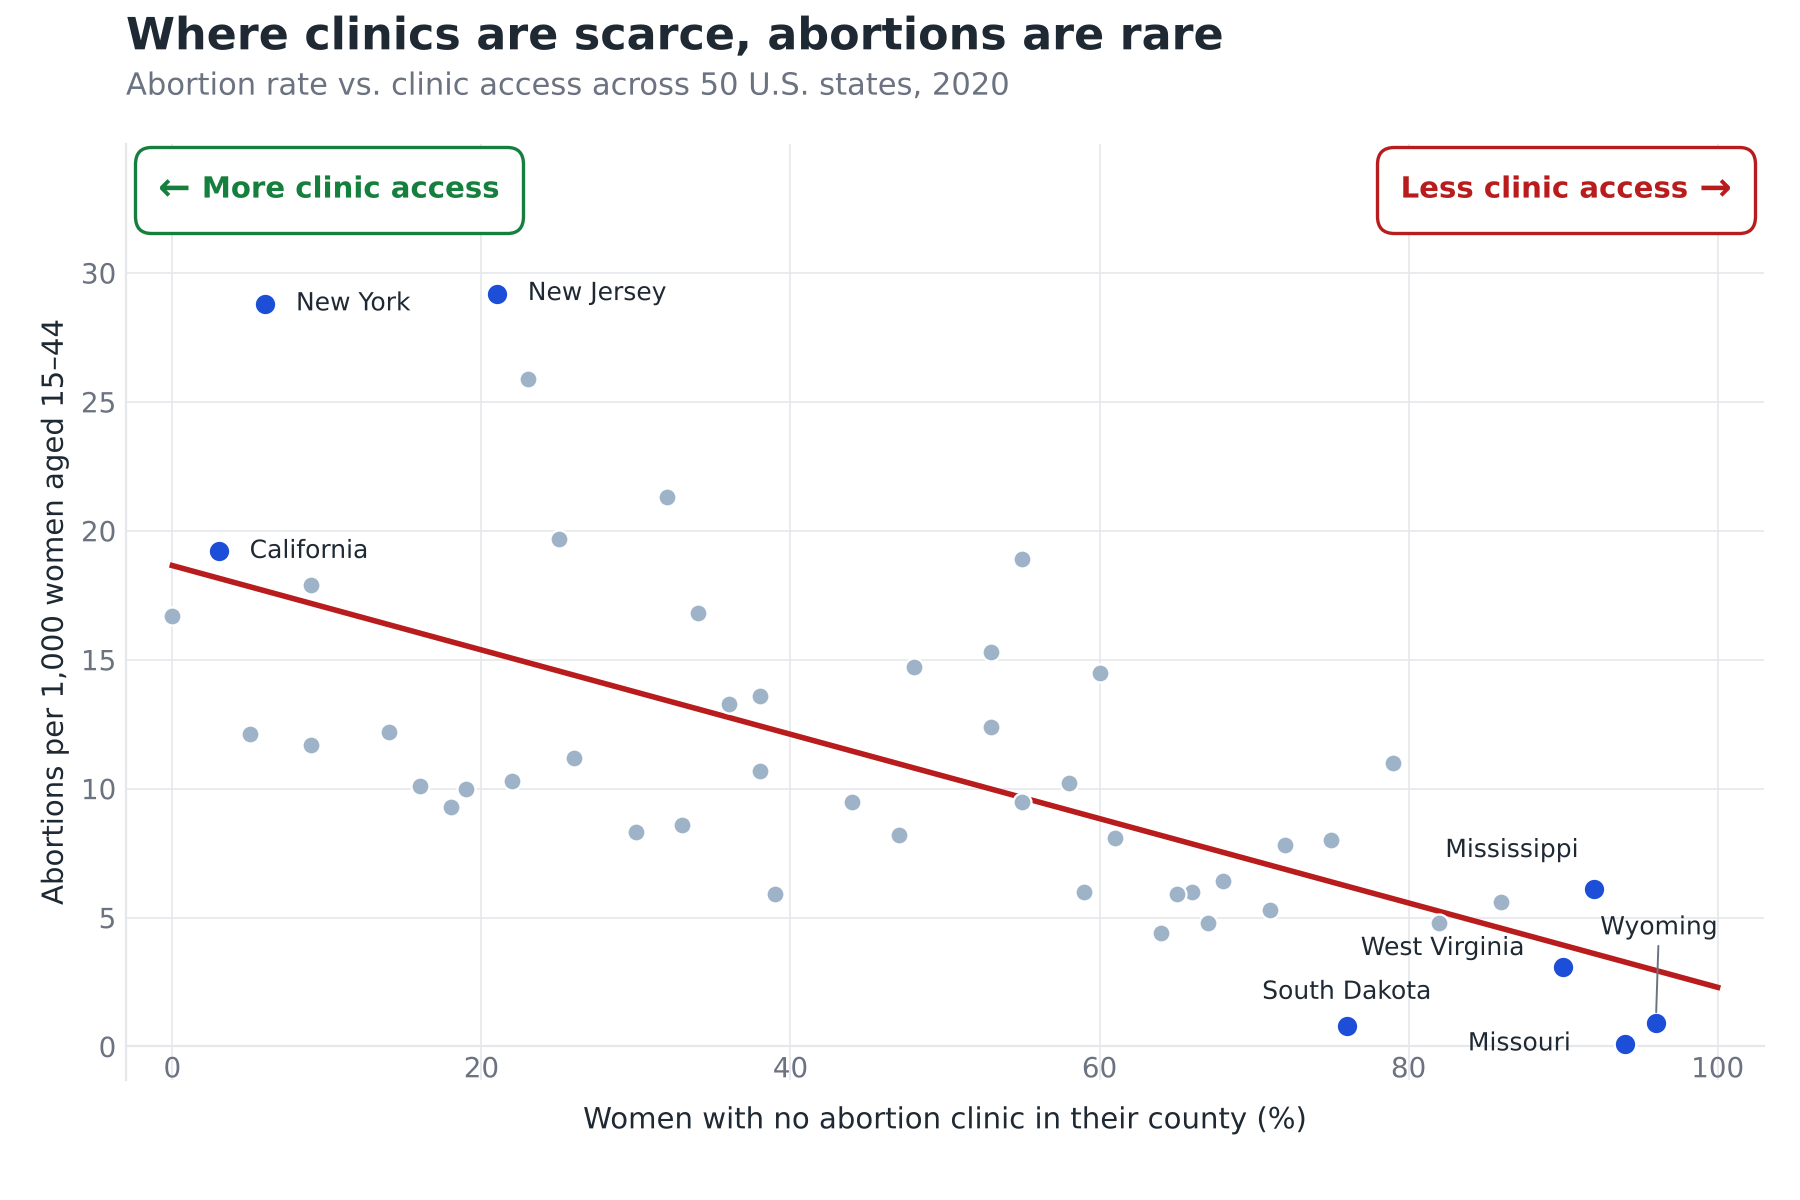
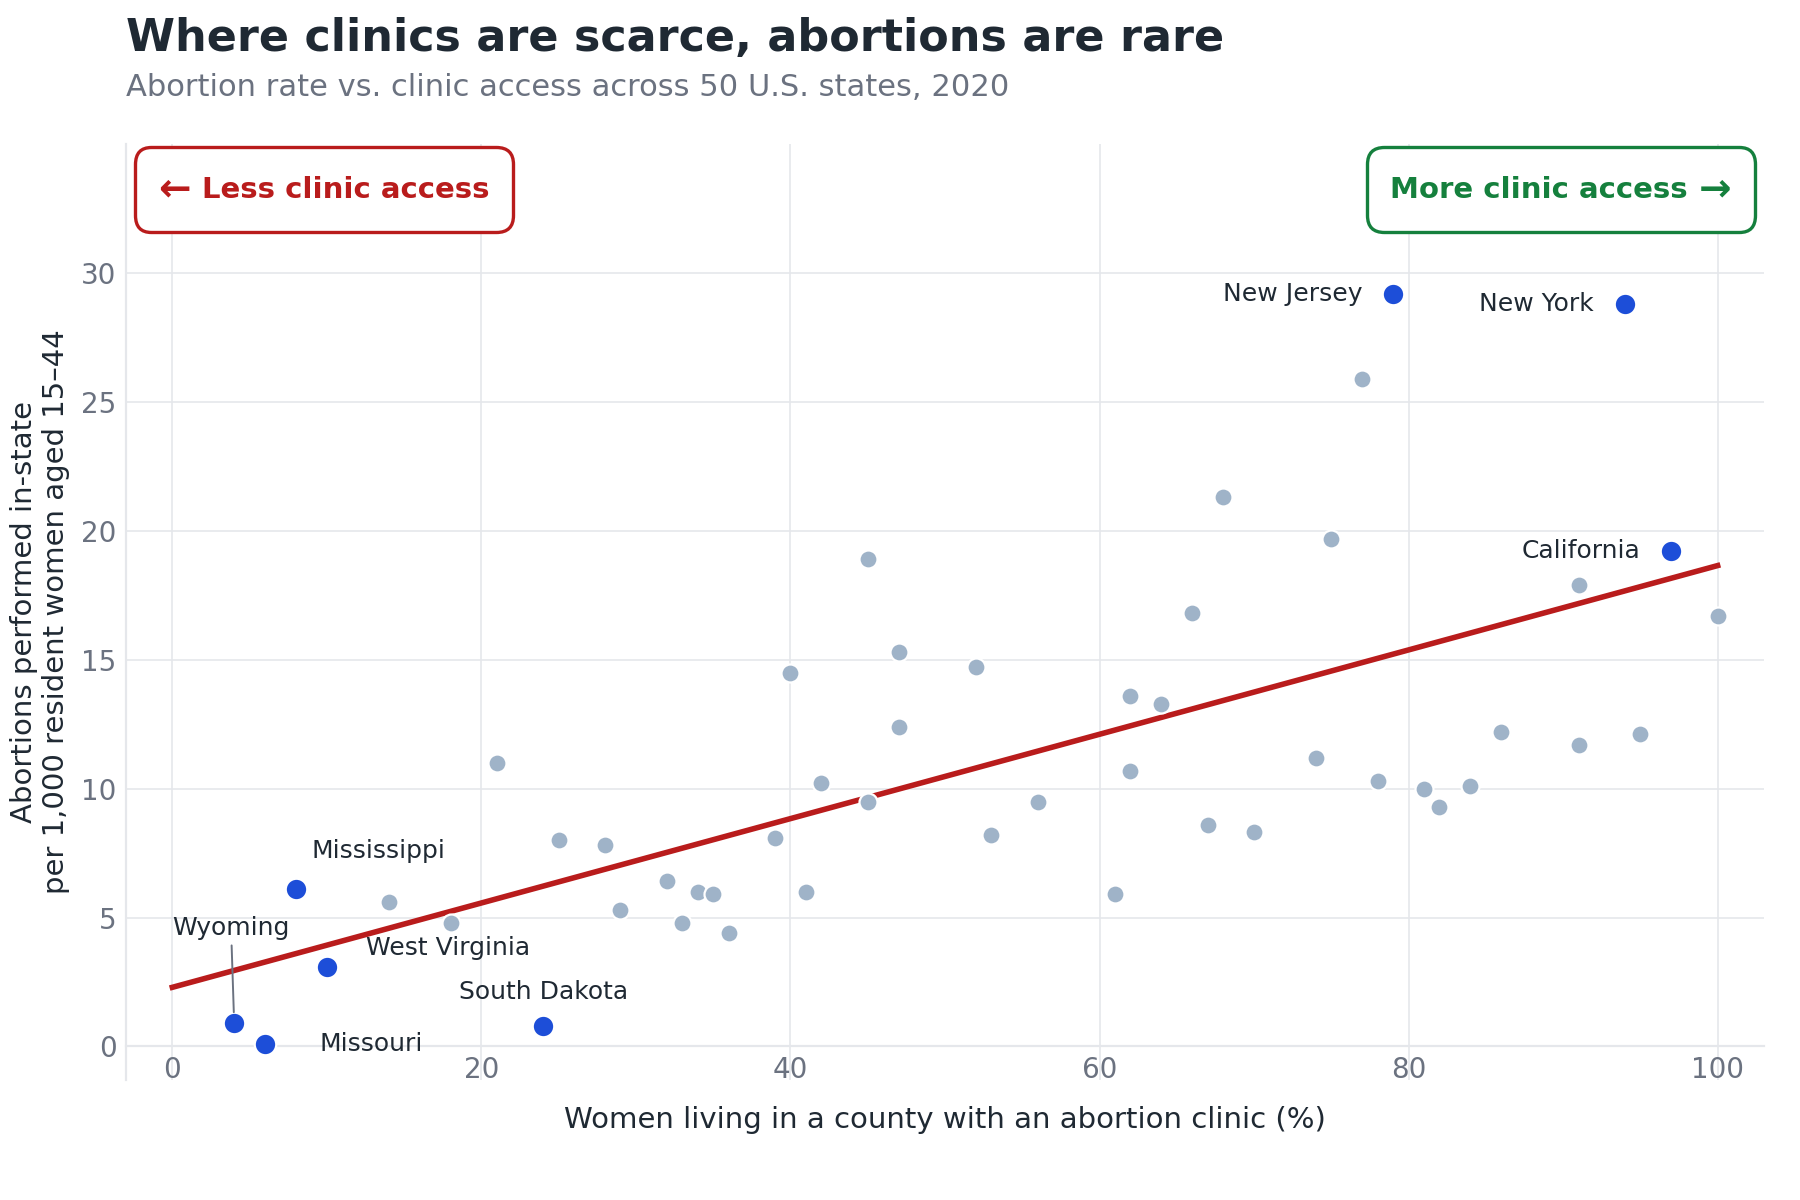
Kobe's rationale updates1

diff --git a/index.html b/index.html
@@ -188,9 +188,38 @@
                 <p>Design Decisions and Rationale:</p>
 
                 <ul>
-                    <li>RATIONALE_1</li>
-                    <li>RATIONALE_2</li>
-                    <li>RATIONALE_3</li>
+                <li><strong>Measuring the rate by where the procedure took place (-1.0).</strong>
+                    The y-axis counts abortions performed in each state, divided by that state's resident women. Residents who travel out of state
+                    are counted in the state they travel to, so low-clinic states look lower and high-clinic states look higher. After feedback on our
+                    checkpoint, we added the axis wording “performed in-state” to specify how the rate is counted. We first scored this decision -1.5
+                    and now score it -1.0, because the label discloses the definition. What worked: we choose the wording that doesn't mention travel 
+                    between states and use technical terms instead of explain the definition in detail, careless readers may still be fooled by it
+                    . What it did not do well: in our first version the definition was not specified at all, and the TA flagged it, so we had to
+                    add the label, which makes the technique easier to spot. The alternative was the residence-based rate, which counts abortions obtained
+                    by a state's residents wherever they were performed (the measure our opposing chart uses). We rejected it because it adds back
+                    out-of-state procedures for low-clinic states, which works against the story this chart is meant to tell.
+                </li>
+
+                <li><strong>Showing a rate per 1,000 women and no totals (-1.0).</strong>
+                    Dividing by resident women is a normal way to compare states of different sizes, but here it makes the number read as how many of
+                    that state's own women have abortions. New Jersey and New York sit near the top of the axis, and that is naturally read as residents'
+                    behavior rather than people coming in from other states. We deliberately do not show total counts or any comparison with residents,
+                    which would invite the question of where those procedures come from.
+                    What worked: the scatter is clean and comparable across states, and it keeps attention on the clinic-access trend instead of on
+                    state-to-state differences in procedure counts. What did not: a reader who wonders why a few states are so far above the rest gets no
+                    answer from the chart, and we cannot fully remove that question. The alternative was to plot totals, but then population would dominate
+                    and the clinic-access trend would be harder to see.
+                </li>
+
+                <li><strong>Flipping the x-axis so more clinic access is on the right (+1.0).</strong>
+                    Our first version plotted the percentage of women with no clinic in their county, so the trend sloped downward and readers had to
+                    reverse “more is worse” in their heads. Following feedback on our checkpoint, we switched to the percentage of women living in a county
+                    with a clinic, so the trend line slopes upward and reads naturally as “more access, higher rate,” with color-coded direction labels
+                    to make the axis explicit.
+                    What worked: the pattern is immediate and the direction labels remove ambiguity. What did not: the original orientation confused
+                    readers, which is why the TA flagged it, and the new measure is still a proxy for the proposition's “number of clinics,” which the chart
+                    does not point out. The alternative was keeping the original orientation with annotation arrows, which we found more confusing.
+                </li>
                 </ul>
             </section>
 
